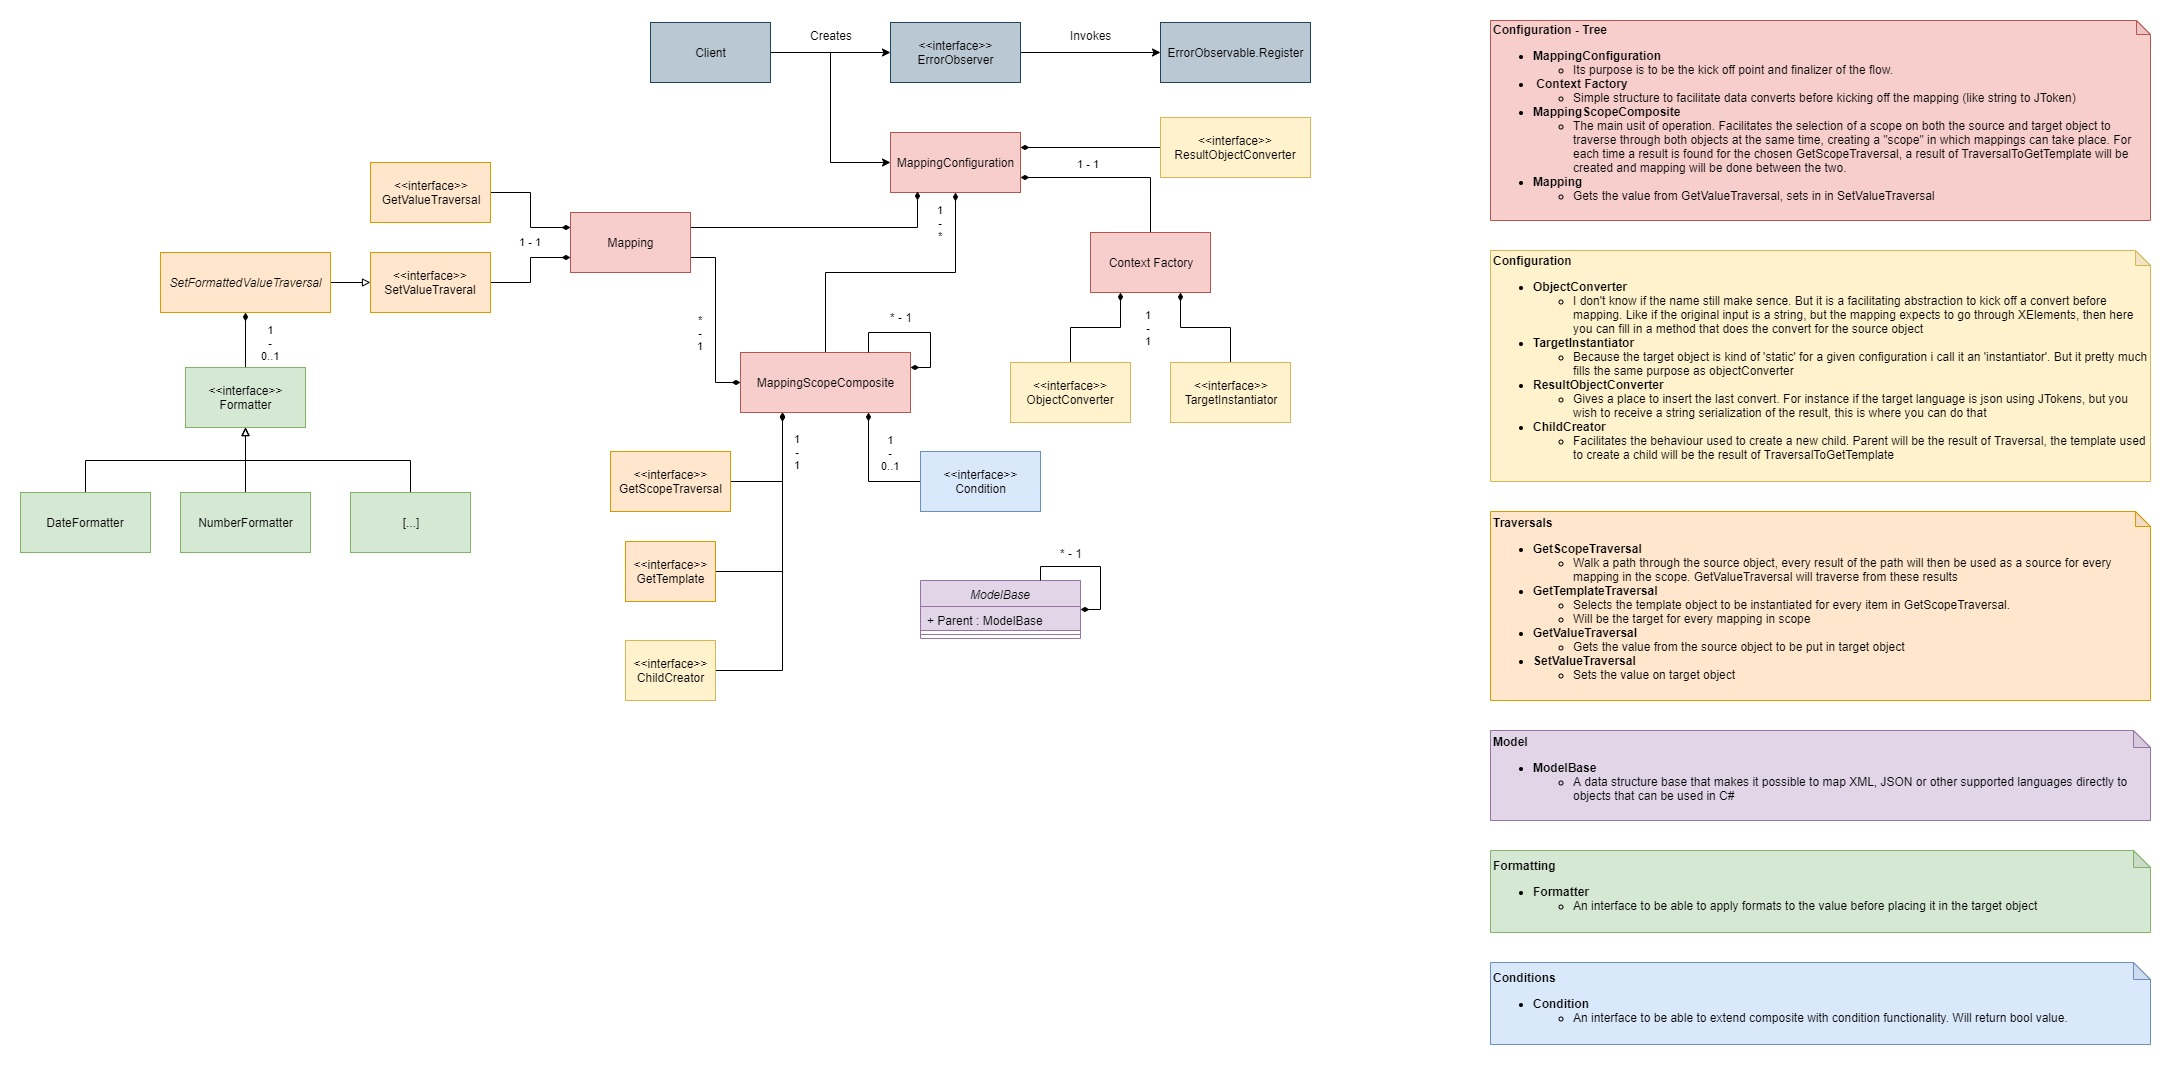
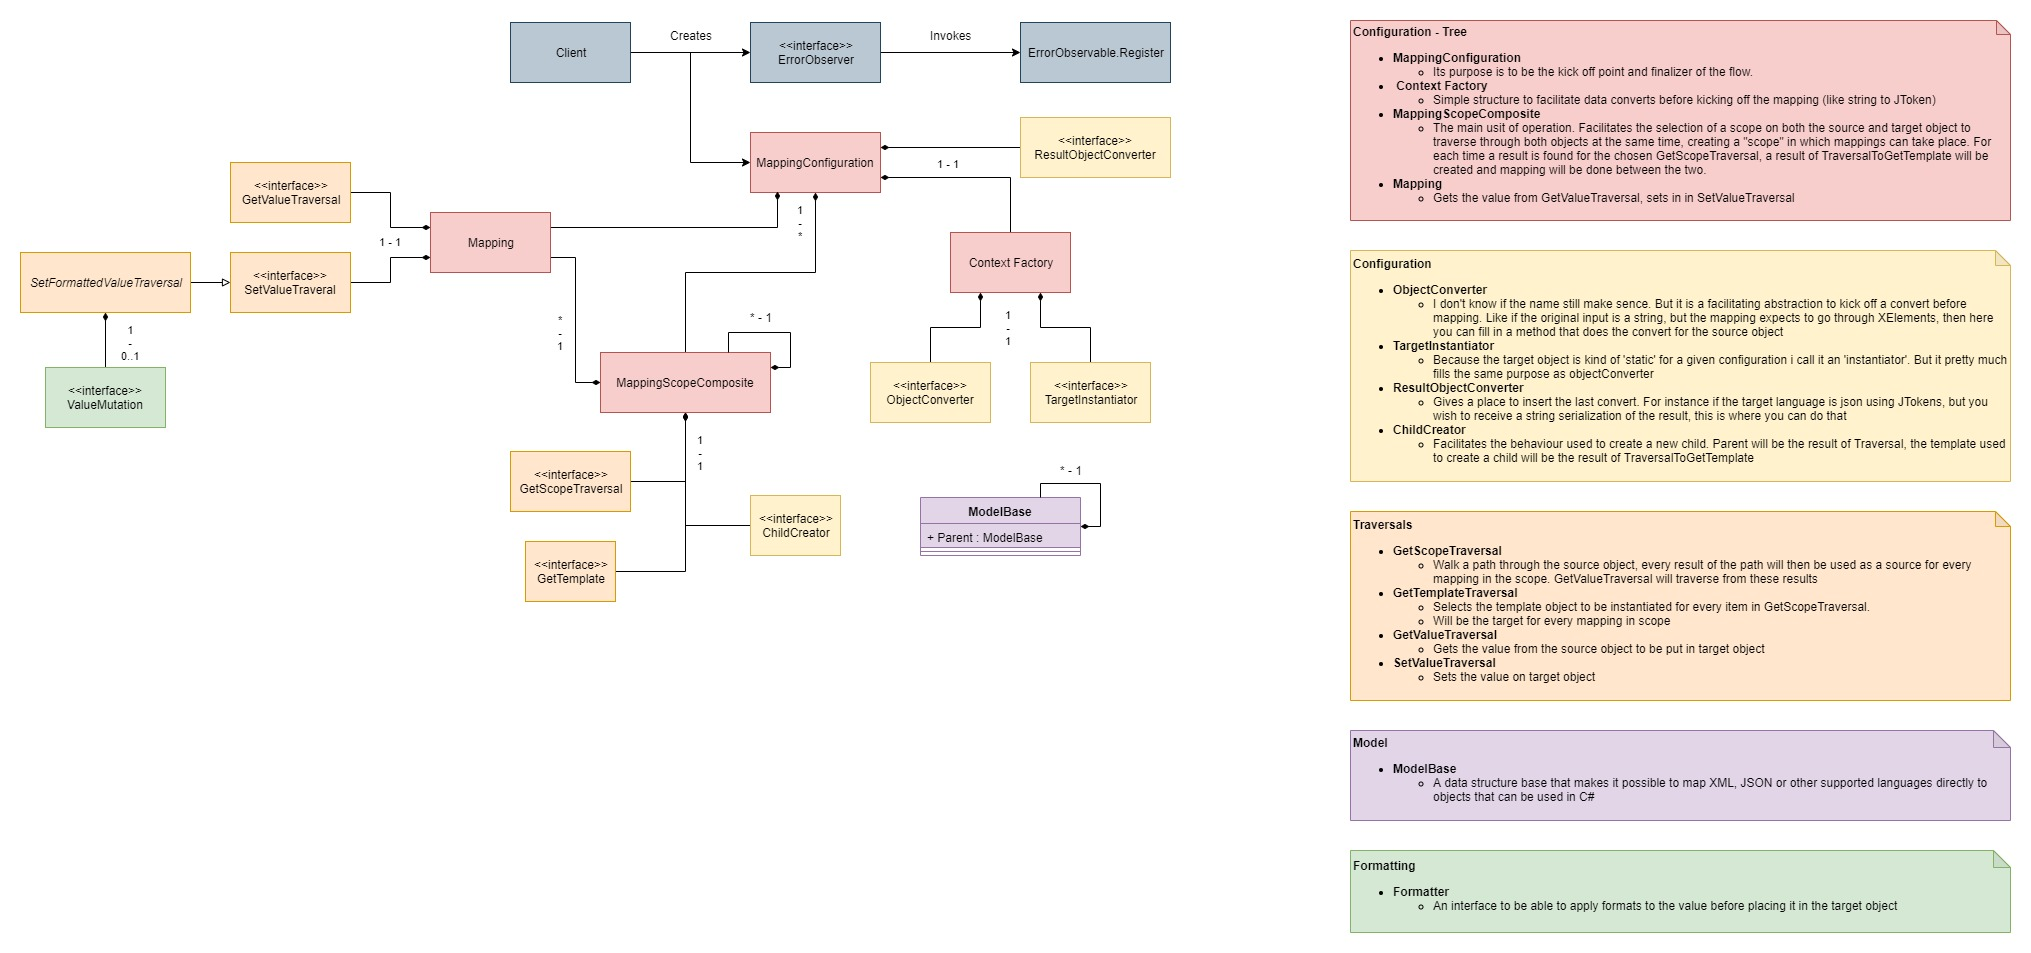
- Setup complex mutation test for Xml - Rename format to Mutation - Update documentation

diff --git a/AdaptableMapper.TDD/Cases/Formats/Cases.cs b/AdaptableMapper.TDD/Cases/Formats/Cases.cs
@@ -1,6 +1,6 @@
 using System;
 using System.Collections.Generic;
-using AdaptableMapper.Formats;
+using AdaptableMapper.ValueMutations;
 using AdaptableMapper.Process;
 using FluentAssertions;
 using Xunit;
@@ -10,19 +10,19 @@ namespace AdaptableMapper.TDD.Cases.Formats
     public class Cases
     {
         [Theory]
-        [InlineData("InvalidDateTime", "", "test", "", "w-DateFormatter#1;")]
+        [InlineData("InvalidDateTime", "", "test", "", "w-DateValueMutation#1;")]
         [InlineData("ValidDate", "yyyy/MM/dd", "2019-12-01T00:00:00", "2019/12/01")]
         [InlineData("ValidDate", "yyyy|MM|dd", "2019/12/19T00:00:00", "2019|12|19")]
         [InlineData("ValidDateISO", "o", "2019-12-01T00:00:00", "2019-12-01T00:00:00.0000000")]
         [InlineData("StrangeFormatTemplate1", "&#$#$", "2019-12-01T00:00:00", "&#$#$")]
-        [InlineData("StrangeFormatTemplate2", "yyyy345789awytUJIHSEFUH#&*$ddddMM:\":{:{", "2019-12-01T00:00:00", "2019-12-01T00:00:00", "e-DateFormatter#2;")]
+        [InlineData("StrangeFormatTemplate2", "yyyy345789awytUJIHSEFUH#&*$ddddMM:\":{:{", "2019-12-01T00:00:00", "2019-12-01T00:00:00", "e-DateValueMutation#2;")]
         [InlineData("StrangeFormatTemplate3", "yyyy345789awytUJIHSEFUH#&*$ddddMM:\":{:{\"", "2019-12-01T00:00:00", "2019345789aw19AUJI0SEU0#&*$Sunday12::{:{")]
         public void DateFormatter(string because, string formatTemplate, string value, string expectedResult, params string[] expectedInformation)
         {
-            var subject = new DateFormatter(formatTemplate);
+            var subject = new DateValueMutation(formatTemplate);
 
             string result = null;
-            List<Information> information = new Action(() => { result = subject.Format(value); }).Observe();
+            List<Information> information = new Action(() => { result = subject.Mutate(value); }).Observe();
 
             information.ValidateResult(new List<string>(expectedInformation), because);
             if (expectedInformation.Length == 0)
@@ -44,10 +44,10 @@ namespace AdaptableMapper.TDD.Cases.Formats
         [InlineData("Empty", ".", 5, "", "0.00000")]
         public void NumberFormatter(string because, string formatTemplate, int numberOfDecimals, string value, string expectedResult, params string[] expectedInformation)
         {
-            var subject = new NumberFormatter(formatTemplate, numberOfDecimals);
+            var subject = new NumberValueMutation(formatTemplate, numberOfDecimals);
 
             string result = null;
-            List<Information> information = new Action(() => { result = subject.Format(value); }).Observe();
+            List<Information> information = new Action(() => { result = subject.Mutate(value); }).Observe();
 
             information.ValidateResult(new List<string>(expectedInformation), because);
             if (expectedInformation.Length == 0)

diff --git a/AdaptableMapper.TDD/Cases/XmlCases/XmlFormats.cs b/AdaptableMapper.TDD/Cases/XmlCases/XmlFormats.cs
@@ -2,7 +2,7 @@
 using System.Collections.Generic;
 using System.Xml.Linq;
 using System.Xml.XPath;
-using AdaptableMapper.Formats;
+using AdaptableMapper.ValueMutations;
 using AdaptableMapper.Process;
 using AdaptableMapper.Traversals.Xml;
 using AdaptableMapper.Xml;
@@ -17,8 +17,8 @@ namespace AdaptableMapper.TDD.Cases.XmlCases
         [InlineData("TranslateDateTime", "./test", "2019-12-01T00:00:10Z", XmlInterpretation.Default, "yyyy/MM/dd", "2019/12/01")]
         public void XmlSetValueTraversalWithDateFormatter(string because, string path, string value, XmlInterpretation xmlInterpretation, string formatTemplate, string expectedResult, params string[] expectedErrors)
         {
-            Formatter formatter = new DateFormatter(formatTemplate);
-            var subject = new XmlSetValueTraversal(path) { XmlInterpretation = xmlInterpretation, Formatter = formatter };
+            ValueMutation valueMutation = new DateValueMutation(formatTemplate);
+            var subject = new XmlSetValueTraversal(path) { XmlInterpretation = xmlInterpretation, ValueMutation = valueMutation };
             object context = XElement.Parse("<root><test></test></root>");
 
             List<Information> information = new Action(() => { subject.SetValue(context, value); }).Observe();
@@ -36,7 +36,7 @@ namespace AdaptableMapper.TDD.Cases.XmlCases
         [Fact]
         public void XmlSetValueSerializeAndDeserialize()
         {
-            var source = new XmlSetValueTraversal("") { Formatter = new DateFormatter("yyyy/MM/dddd") };
+            var source = new XmlSetValueTraversal("") { ValueMutation = new DateValueMutation("yyyy/MM/dddd") };
             string serialized = JsonSerializer.Serialize(source);
             var target = JsonSerializer.Deserialize<XmlSetValueTraversal>(serialized);
 

diff --git a/AdaptableMapper/ValueMutations/DateValueMutation.cs b/AdaptableMapper/ValueMutations/DateValueMutation.cs
@@ -1,20 +1,20 @@
 using System;
 using System.Globalization;
 
-namespace AdaptableMapper.Formats
+namespace AdaptableMapper.ValueMutations
 {
-    public class DateFormatter : Formatter
+    public class DateValueMutation : ValueMutation
     {
         public string FormatTemplate { get; set; }
 
-        public DateFormatter(string formatTemplate)
+        public DateValueMutation(string formatTemplate)
             => FormatTemplate = formatTemplate;
 
-        public string Format(string source)
+        public string Mutate(string source)
         {
             if (!DateTime.TryParse(source, CultureInfo.InvariantCulture, DateTimeStyles.None, out DateTime sourceDateTime))
             {
-                Process.ProcessObservable.GetInstance().Raise("DateFormatter#1; source is not a valid date", "warning");
+                Process.ProcessObservable.GetInstance().Raise("DateValueMutation#1; source is not a valid date", "warning");
                 return source;
             }
 
@@ -25,7 +25,7 @@ namespace AdaptableMapper.Formats
             }
             catch(Exception exception)
             {
-                Process.ProcessObservable.GetInstance().Raise("DateFormatter#2; source is not a valid date", "error", exception.Message, exception.GetType().Name);
+                Process.ProcessObservable.GetInstance().Raise("DateValueMutation#2; source is not a valid date", "error", exception.Message, exception.GetType().Name);
                 return source;
             }
             return result;

diff --git a/AdaptableMapper.TDD/Cases/XmlCases/XmlTraversals.cs b/AdaptableMapper.TDD/Cases/XmlCases/XmlTraversals.cs
@@ -102,6 +102,21 @@ namespace AdaptableMapper.TDD.Cases.XmlCases
             }
         }
 
+        [Fact]
+        public void XmlSetValueTraversalSetProcessingInformation()
+        {
+            var subject = new XmlSetValueTraversal("/processing-instruction('thing')");
+            object context = XDocument.Parse(System.IO.File.ReadAllText("./Resources/SimpleProcessingInstructionTemplate.xml")).Root;
+
+            List<Information> result = new Action(() => { subject.SetValue(context, "value1|1|item"); }).Observe();
+
+            XElement xElementResult = context as XElement;
+
+            var converter = new XElementToStringObjectConverter();
+            var convertedResult = converter.Convert(xElementResult);
+            convertedResult.Should().BeEquivalentTo(System.IO.File.ReadAllText("./Resources/SimpleProcessingInstructionExpectedResult.xml"));
+        }
+
         [Theory]
         [InlineData("InvalidType", "", ContextType.EmptyString, "e-XML#23;")]
         [InlineData("InvalidPath", "::", ContextType.EmptyObject, "e-XML#27;")]

diff --git a/AdaptableMapper/Traversals/SetMutableValueTraversal.cs b/AdaptableMapper/Traversals/SetMutableValueTraversal.cs
@@ -1,16 +1,16 @@
-using AdaptableMapper.Formats;
+using AdaptableMapper.ValueMutations;
 
 namespace AdaptableMapper.Traversals
 {
-    public abstract class SetFormattedValueTraversal : SetValueTraversal
+    public abstract class SetMutableValueTraversal : SetValueTraversal
     {
-        public Formatter Formatter { get; set; }
+        public ValueMutation ValueMutation { get; set; }
 
         protected abstract void SetValueImplementation(object target, string value);
 
         public void SetValue(object target, string value)
         {
-            string formattedValue = Formatter?.Format(value) ?? value;
+            string formattedValue = ValueMutation?.Mutate(value) ?? value;
 
             SetValueImplementation(target, formattedValue);
         }

diff --git a/AdaptableMapper/ValueMutations/NumberValueMutation.cs b/AdaptableMapper/ValueMutations/NumberValueMutation.cs
@@ -1,19 +1,19 @@
 using System.Linq;
 
-namespace AdaptableMapper.Formats
+namespace AdaptableMapper.ValueMutations
 {
-    public class NumberFormatter : Formatter
+    public class NumberValueMutation : ValueMutation
     {
         public string Separator { get; set; }
         public int NumberOfDecimals { get; set; }
 
-        public NumberFormatter(string separator, int numberOfDecimals)
+        public NumberValueMutation(string separator, int numberOfDecimals)
         {
             Separator = separator;
             NumberOfDecimals = numberOfDecimals;
         }
 
-        public string Format(string source)
+        public string Mutate(string source)
         {
             string filteredSource = new string(source.Where(char.IsDigit).ToArray());
 

diff --git a/AdaptableMapper.TDD/Cases/Formats/NullFormatterCases.cs b/AdaptableMapper.TDD/Cases/Formats/NullFormatterCases.cs
@@ -1,4 +1,4 @@
-using AdaptableMapper.Formats;
+using AdaptableMapper.ValueMutations;
 using FluentAssertions;
 using Xunit;
 
@@ -14,9 +14,9 @@ namespace AdaptableMapper.TDD.Cases.Formats
         [InlineData("testtesttesttesttesttesttesttesttesttesttesttesttesttesttesttest")]
         public void NullFormatterFormat(string source)
         {
-            var subject = new NullFormatter();
+            var subject = new NullValueMutation();
 
-            var result = subject.Format(source);
+            var result = subject.Mutate(source);
             result.Should().BeEquivalentTo(source);
         }
     }

diff --git a/AdaptableMapper/Traversals/Xml/XElementExtensions.cs b/AdaptableMapper/Traversals/Xml/XElementExtensions.cs
@@ -120,6 +120,8 @@ namespace AdaptableMapper.Traversals.Xml
                         element.Value = value;
                     else if (xObject is XAttribute attribute)
                         attribute.Value = value;
+                    else if (xObject is XProcessingInstruction processingInformation)
+                        processingInformation.Data = value;
                 }
             }
         }

diff --git a/AdaptableMapper/Traversals/Xml/XmlSetValueTraversal.cs b/AdaptableMapper/Traversals/Xml/XmlSetValueTraversal.cs
@@ -4,7 +4,7 @@ using Newtonsoft.Json;
 
 namespace AdaptableMapper.Traversals.Xml
 {
-    public sealed class XmlSetValueTraversal : SetFormattedValueTraversal
+    public sealed class XmlSetValueTraversal : SetMutableValueTraversal
     {
         public XmlInterpretation XmlInterpretation { get; set; }
         public string Path { get; set; }

diff --git a/AdaptableMapper/Traversals/Model/ModelSetValueOnPropertyTraversal.cs b/AdaptableMapper/Traversals/Model/ModelSetValueOnPropertyTraversal.cs
@@ -2,7 +2,7 @@
 
 namespace AdaptableMapper.Traversals.Model
 {
-    public sealed class ModelSetValueOnPropertyTraversal : SetFormattedValueTraversal
+    public sealed class ModelSetValueOnPropertyTraversal : SetMutableValueTraversal
     {
         public ModelSetValueOnPropertyTraversal(string propertyName)
         {

diff --git a/AdaptableMapper/Traversals/Model/ModelSetValueOnPathTraversal.cs b/AdaptableMapper/Traversals/Model/ModelSetValueOnPathTraversal.cs
@@ -2,7 +2,7 @@
 
 namespace AdaptableMapper.Traversals.Model
 {
-    public sealed class ModelSetValueOnPathTraversal : SetFormattedValueTraversal
+    public sealed class ModelSetValueOnPathTraversal : SetMutableValueTraversal
     {
         public ModelSetValueOnPathTraversal(string path)
         {

diff --git a/AdaptableMapper/Traversals/Json/JsonSetValueTraversal.cs b/AdaptableMapper/Traversals/Json/JsonSetValueTraversal.cs
@@ -4,7 +4,7 @@ using System.Linq;
 
 namespace AdaptableMapper.Traversals.Json
 {
-    public sealed class JsonSetValueTraversal : SetFormattedValueTraversal
+    public sealed class JsonSetValueTraversal : SetMutableValueTraversal
     {
         public JsonSetValueTraversal(string path)
         {
